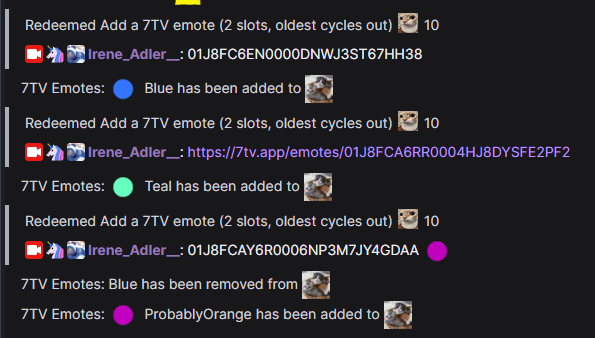
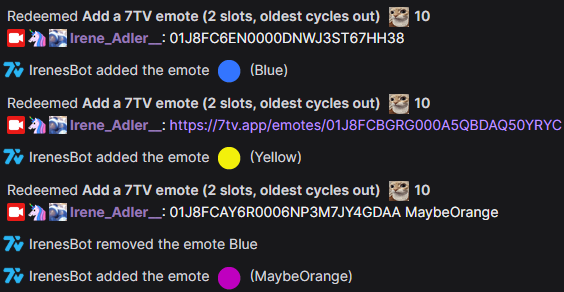
Some docs updates

Changed region(s): [[0.0, 0.0, 0.9947, 1.0]]

diff --git a/src/core/bot.py b/src/core/bot.py
@@ -325,7 +325,7 @@ class IreBot(commands.AutoBot):
     # @override  # interesting that it's not an override
     async def event_ready(self) -> None:
         """Event that is dispatched when the `Client` is ready and has completed login."""
-        log.info("%s is ready as @%s (id=%s)", self.__class__.__name__, self.bot_id, self.user.display_name)
+        log.info("%s is ready as @%s (id=%s)", self.__class__.__name__, self.user.display_name, self.bot_id)
 
         if not hasattr(self, "launch_time"):
             # who knows maybe it triggers many times like `discord.py`

diff --git a/docs/public/seven_tv.rst b/docs/public/seven_tv.rst
@@ -24,16 +24,18 @@ In other words, the bot cycles out the oldest emote - hence the name for the fea
 
 Here is a screenshot of how it works with ``emote_limit = 2``. 
 
-1. I add "Blue" emote with an ``<emote_id>``, the bot adds it;
-2. I add "Teal" emote with its ``<7tv_link>``, the bot adds it;
-3. I add "Purple" emote with and ``emote_id`` and alias - the bot adds it, but this time the limit came to play - it also had to remove "Blue" emote.
+1. I add "🔵Blue" emote with an ``<emote_id>`` - the bot adds it;
+2. I add "🟡Yellow" emote with its ``<7tv_link>`` - the bot adds it;
+3. I add "🟣Purple" emote with its ``<emote_id>`` and "MaybeOrange" as its ``<emote_alias>`` 
+   (so the emote will be called "MaybeOrange" and not "Purple") - 
+   the bot adds it, but this time the limit came to play - it also had to remove "🔵Blue" emote.
 
 .. image:: /_static/images/cycling-emotes.png
 
 .. attention::
 
-    Sometimes it takes a bot a few seconds to add / remove the requested emotes. 
-    7TV sometimes slowly responds to our requests.
+   Sometimes it takes a bot a few seconds to add / remove the requested emotes. 
+   7TV sometimes slowly responds to our requests.
 
 The list of commands:
 
@@ -41,24 +43,24 @@ The list of commands:
 ---------------------
 
 * Arguments: 
-    * **emote_limit** (integer, 10 by default) - an upper limit for total amount of cycling emotes.
+   * **emote_limit** (integer, 10 by default) - an upper limit for total amount of cycling emotes.
 
 * Usage Example(-s): ``!7tv cycle create 10``
 
-    Create a channel points reward, redeems for which the bot will listen to and process them to add/remove 7tv emotes to the channel.
+   Create a channel points reward, redeems for which the bot will listen to and process them to add/remove 7tv emotes to the channel.
 
-    PS. Streamers are able to edit the resulting channel points reward in their streamer dashboard (https://dashboard.twitch.tv/u/your-twitch-tv-name/viewer-rewards/channel-points/rewards).
-    Please, don't disable ``Require Viewer to Enter Text`` as the bot won't be able to get anything, obviously.
+   PS. Streamers are able to edit the resulting channel points reward in their streamer dashboard (https://dashboard.twitch.tv/u/your-twitch-tv-name/viewer-rewards/channel-points/rewards).
+   Please, don't disable ``Require Viewer to Enter Text`` as the bot won't be able to get anything, obviously.
 
 ``!7tv cycle status``
 ---------------------
 * Arguments: 
-    * **None**.
+   * **None**.
 
 * Usage Example(-s): ``!7tv cycle status``
 
-    Get some information about your cycling-emotes channel points reward.
-    Mostly some information useful for the developer.
+   Get some information about your cycling-emotes channel points reward.
+   Mostly some information useful for the developer.
 
 ``!7tv cycle remove``
 ---------------------
@@ -67,26 +69,26 @@ The list of commands:
 
 * Usage Example(-s): ``!7tv cycle remove Blue``, ``!7tv cycle remove 01J8FC6EN0000DNWJ3ST67HH38``
 
-    Remove an emote from the cycling list.
-    Useful, when streamer wants to elevate an emote from cycling list into a "permanent" one.
-    In other words, to prevent the emote from being eventually cycled out.
+   Remove an emote from the cycling list.
+   Useful, when streamer wants to elevate an emote from cycling list into a "permanent" one.
+   In other words, to prevent the emote from being eventually cycled out.
 
 ``!7tv cycle limit``
 ---------------------
 * Arguments: 
-    * **new_limit** (text, emote_alias or emote_id formats are supported) - 7TV emote id.
+   * **new_limit** (text, emote_alias or emote_id formats are supported) - 7TV emote id.
 
 * Usage Example(-s): ``!7tv cycle limit 20``
 
-    Set a new limit for cycling emote list.
+   Set a new limit for cycling emote list.
 
 
 ``!7tv cycle attach``
 ---------------------
 * Arguments: 
-    * **reward_name** (text) - a name of existing channel points reward for the bot to start listening to.
+   * **reward_name** (text) - a name of existing channel points reward for the bot to start listening to.
 
 * Usage Example(-s): ``!7tv cycle attach add 7tv emote lol``
 
-    Instead of creating a new channel points reward with ``!7tv cycle create`` you can attach an existing reward for the bot to listen to.
+   Instead of creating a new channel points reward with ``!7tv cycle create`` you can attach an existing reward for the bot to listen to.
 

diff --git a/docs/public/dota2.rst b/docs/public/dota2.rst
@@ -101,13 +101,13 @@ The commands below work exactly in the same fashion as :iconify:`logos:twitch` `
 
 To make bot responses look like in the "Showcase" column you can add those emotes quickly to your channel by merging your main 7tv emote set with 
 the `Dota 2 hero icons emote set <https://7tv.app/emote-sets/01JS1XW1PAAKP34984FDYZVDR7>`_ using a tool/bot like `potat.app/help/mergeset <https://potat.app/help/mergeset>`_. 
-Some short instructions for @PotatBotat specifically:
+Some short instructions for :iconify:`logos:twitch` `@PotatBotat <https://www.twitch.tv/PotatBotat>`_ specifically:
 
-* Add @PotatBotat to your channel;
-* Give it 7tv editor role, allow it to ```Create Emote Sets`` in addition to default permissions;
+* Add :iconify:`logos:twitch` `@PotatBotat <https://www.twitch.tv/PotatBotat>`_ to your channel;
+* Give it 7tv editor role, allow it to ``Create Emote Sets`` in addition to default permissions;
 * Use ``#mergeset <Primary set ID> 01JS1XW1PAAKP34984FDYZVDR7`` where the second argument is the ID for the Dota 2 emote set from the showcase column;
 * You can find your ``<Primary set ID>`` (the first argument) by copying the last part of the URL to your own main emote set;
-* @PotatBotat will create a new emote set trying to merge the provided ones; if there is more then 1000 emotes in total - some emotes from the 2nd set won't make it;
+* :iconify:`logos:twitch` `@PotatBotat <https://www.twitch.tv/PotatBotat>`_ will create a new emote set trying to merge the provided ones; if there is more then 1000 emotes in total - some emotes from the 2nd set won't make it;
 * Now you can switch between your main set and a merged version;
 
 ⚠ Functionality restrictions

diff --git a/docs/public/invite.rst b/docs/public/invite.rst
@@ -14,8 +14,10 @@ Use this link:
 
 
 Yes, I'm sorry. I know the link looks ugly and the host "parrot-thankful-trivially.ngrok-free.app" looks suspicious as hell, but I don't really care to pay money to get a proper domain name. 
-Idk, I'm a bit stingy like that, but it's safe to click.
-The link will redirect to a normal `twitch.tv <https://www.twitch.tv>`_ authorization page like a screenshot below: here you read what permissions my bot is asking and press "Authorize" it if you are okay with giving my bot those permissions.
+Idk, I'm a bit stingy like that, but it's safe to click (me and a few people have already authorized the bot this way).
+
+The link will redirect to a normal `twitch.tv <https://www.twitch.tv>`_ authorization page like a screenshot below: 
+here you read what permissions my bot is asking and press "Authorize" it if you are okay with giving my bot those permissions.
 
 .. image:: /_static/images/authorize.png
     :align: center
@@ -24,7 +26,7 @@ The link will redirect to a normal `twitch.tv <https://www.twitch.tv>`_ authoriz
 💔 Troubleshooting
 ##################
 
-In most cases - just contact me (:iconify:`logos:twitch` @Irene_Adler__) and we will solve the problem.
+In most cases - just contact me (:iconify:`logos:twitch` `@Irene_Adler__ <https://www.twitch.tv/Irene_Adler__>`_) and we will solve the problem.
 
 * If the page doesn't load at all - I probably turned off the web-app for some reason. Contact me.
 * If the page loads but it is showing some error (e.g. recently I stumbled upon ``ERR_NGROK_8012``) then also contact me.

diff --git a/docs/references/index.rst b/docs/references/index.rst
@@ -47,5 +47,5 @@ Fuzzy
 Seven TV
 ########
 
-.. automodule:: shared.seven_tv
+.. automodule:: shared.seven_tv_api
     :members:
